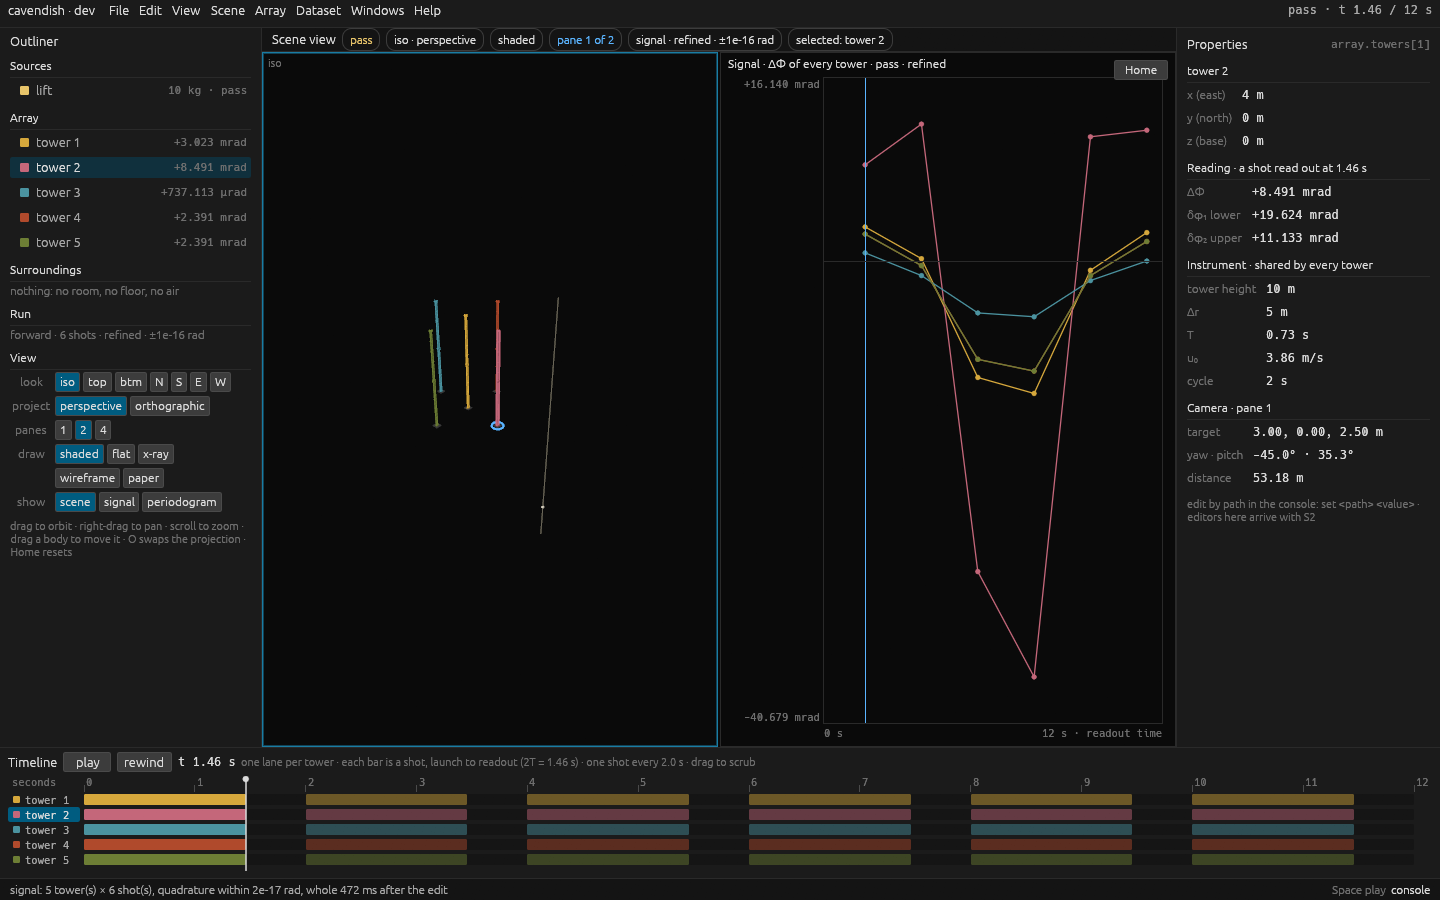
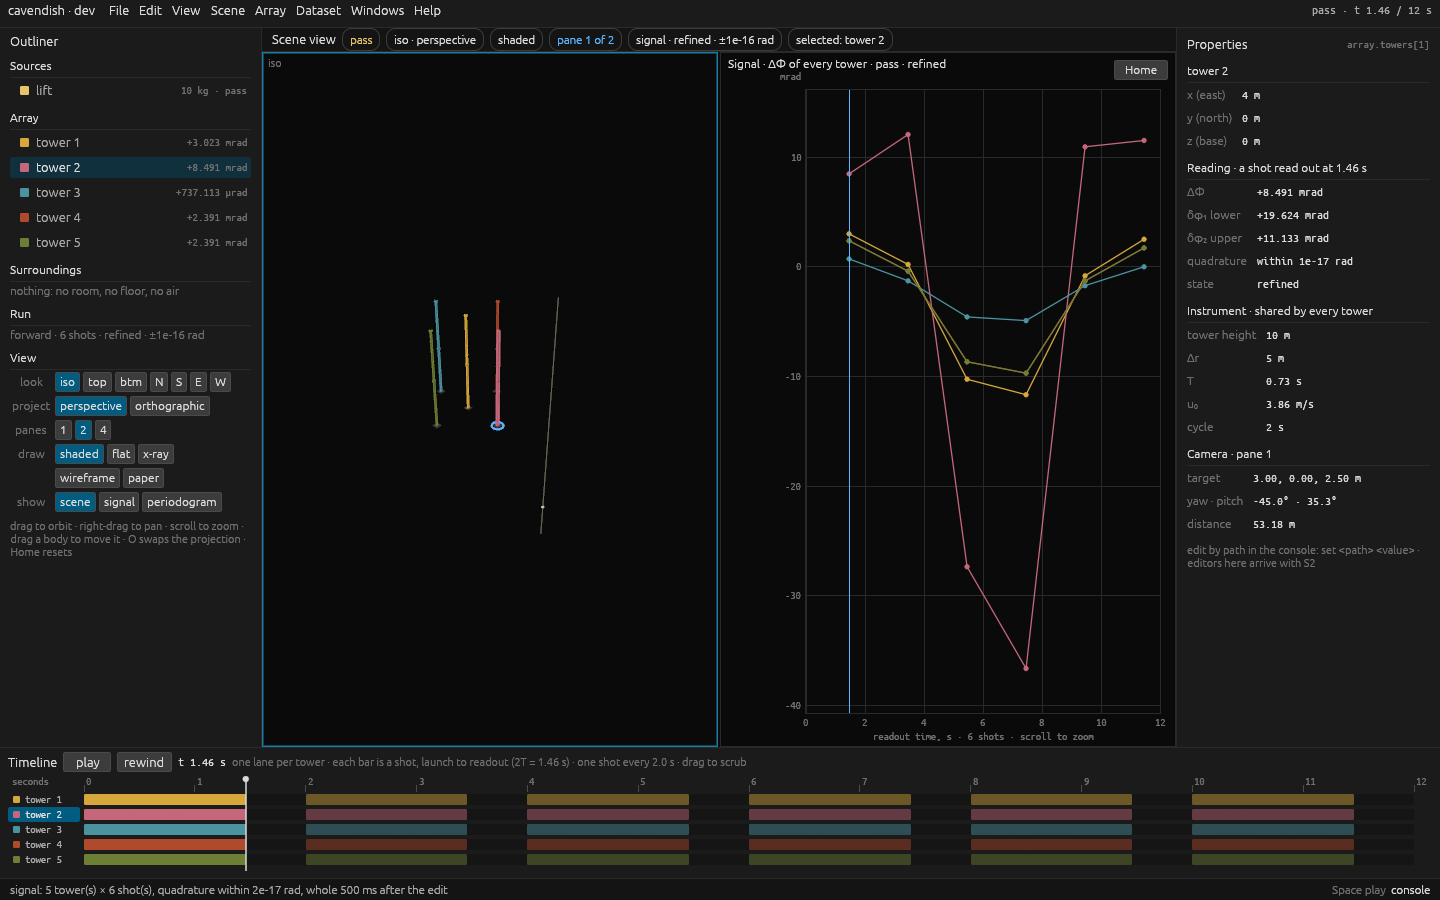
Ubuntu Mono as the monospace face, its licence built in; screenshots made again
The font file and its licence were added on main by the coordinator on the owner's yes; this wires
it in (include_bytes!), builds the Ubuntu Font Licence in beside it and names both in the About
box. Held by the face's advance, with egui's Hack as the control. S0 and S1 demos re-run. With the
pictures open: the unit no longer sits on the caption, the caption fits its pane, and stems'
labels are not written over each other.

Claude-Session: https://claude.ai/code/session_017UKyESvgTyJj7e3MbJhZtf

diff --git a/crates/cav-app/src/plots.rs b/crates/cav-app/src/plots.rs
@@ -185,16 +185,19 @@ struct Sheet<'a> {
     rect: Rect,
     area: Rect,
     labels: Vec<(String, Rect)>,
+    /// How many of the labels are the title and the axes' own, which a stem's label may sit on
+    /// (a mark's number is outside the axes; the title is above them).
+    fixed: usize,
 }
 
 impl<'a> Sheet<'a> {
     /// A sheet with its title at the top and `legend` lines under it, above the axes.
     fn new(painter: &'a egui::Painter, rect: Rect, title: &str, legend: usize) -> Self {
         painter.rect_filled(rect, 0.0, theme::BACKGROUND);
-        let top = 26.0 + 13.0 * legend as f32;
+        let top = 38.0 + 13.0 * legend as f32;
         let area = Rect::from_min_max(rect.min + vec2(86.0, top), rect.max - vec2(16.0, 34.0));
         painter.rect_stroke(area, 0.0, Stroke::new(1.0, theme::RULE), egui::StrokeKind::Outside);
-        let mut sheet = Self { painter, rect, area, labels: Vec::new() };
+        let mut sheet = Self { painter, rect, area, labels: Vec::new(), fixed: 0 };
         sheet.text(
             rect.left_top() + vec2(8.0, 5.0),
             Align2::LEFT_TOP,
@@ -214,6 +217,38 @@ impl<'a> Sheet<'a> {
 
     fn small(&mut self, at: Pos2, anchor: Align2, text: impl Into<String>) {
         self.text(at, anchor, text, FontId::monospace(10.5), theme::WEAK);
+    }
+
+    /// The caption under the horizontal axis: the first of `forms` that fits the width of the
+    /// axes, or the last if none does.
+    fn caption(&mut self, forms: &[String]) {
+        let font = FontId::monospace(10.5);
+        let fits = |text: &String| {
+            self.painter.layout_no_wrap(text.clone(), font.clone(), theme::WEAK).size().x <= self.area.width()
+        };
+        let text = forms.iter().find(|text| fits(text)).or(forms.last()).cloned().unwrap_or_default();
+        self.small(pos2(self.area.center().x, self.area.bottom() + 18.0), Align2::CENTER_TOP, text);
+    }
+
+    /// Writes a stem's label by its top, where it covers no label already written: to the right
+    /// of the stem (to the left near the right edge), then higher, a line at a time. A label
+    /// with nowhere to go is left out; its stem and its dot still stand. True when written.
+    fn stem_label(&mut self, top: Pos2, text: &str, colour: Color32) -> bool {
+        let font = FontId::proportional(10.0);
+        let size = self.painter.layout_no_wrap(text.to_owned(), font.clone(), colour).size();
+        let left = top.x + 3.0 + size.x > self.area.right();
+        for lift in 0..4 {
+            let bottom = (top.y - 3.0 - 11.0 * lift as f32).max(self.area.top() + size.y + 1.0);
+            let min = pos2(if left { top.x - 3.0 - size.x } else { top.x + 3.0 }, bottom - size.y);
+            let took = Rect::from_min_size(min, size);
+            // With a little air round it: labels that touch read as one.
+            let air = took.expand2(vec2(4.0, 1.0));
+            if self.labels[self.fixed..].iter().all(|(_, other)| !other.intersects(air)) {
+                self.text(min, Align2::LEFT_TOP, text, font, colour);
+                return true;
+            }
+        }
+        false
     }
 
     fn nothing(&mut self, why: &str) {
@@ -329,17 +364,15 @@ fn signal(engine: &Engine, painter: &egui::Painter, pane: usize, rect: Rect) -> 
         painter.vline(at, area.y_range(), Stroke::new(1.0, theme::LINK));
         drawn.playhead = Some(at);
     }
-    sheet.small(pos2(area.left() - 5.0, area.bottom() + 18.0), Align2::RIGHT_TOP, unit);
-    let whole = if frame.span.is_some() {
-        " · scroll to zoom, double-click for all of it"
-    } else {
-        " · scroll to zoom"
-    };
-    sheet.small(
-        pos2(area.center().x, area.bottom() + 18.0),
-        Align2::CENTER_TOP,
-        format!("readout time, s · {} shots{whole}", signal.times.len()),
-    );
+    sheet.small(area.left_top() + vec2(-5.0, -19.0), Align2::RIGHT_TOP, unit);
+    let shots = signal.times.len();
+    let hint =
+        if frame.span.is_some() { "scroll to zoom, double-click for all of it" } else { "scroll to zoom" };
+    sheet.caption(&[
+        format!("readout time, s · {shots} shots · {hint}"),
+        format!("readout time, s · {shots} shots"),
+        "time, s".to_owned(),
+    ]);
     drawn.labels = sheet.labels;
     drawn
 }
@@ -409,6 +442,7 @@ fn periodogram(engine: &Engine, painter: &egui::Painter, pane: usize, rect: Rect
     // The combs: a stem at each harmonic, at the height the spectrum has there. A harmonic above
     // Nyquist stands where it folds to, dashed, and says so.
     let clip = painter.with_clip_rect(area.expand(3.0));
+    sheet.fixed = sheet.labels.len();
     for (n, comb) in spectrum.combs.iter().enumerate() {
         let colour = COMB_COLOURS[n % COMB_COLOURS.len()];
         let mut named: Vec<(Pos2, String)> = Vec::new();
@@ -447,16 +481,7 @@ fn periodogram(engine: &Engine, painter: &egui::Painter, pane: usize, rect: Rect
             drawn.stems.push((comb.label.clone(), harmonic.n, top.x, harmonic.folded));
         }
         for (top, text) in named {
-            // To the right of its stem, or to the left when the right edge is too near for the
-            // words; never above the top of the plot.
-            let width = 5.5 * text.chars().count() as f32 + 8.0;
-            let (anchor, offset) = if top.x + width > area.right() {
-                (Align2::RIGHT_BOTTOM, vec2(-3.0, -3.0))
-            } else {
-                (Align2::LEFT_BOTTOM, vec2(3.0, -3.0))
-            };
-            let at = pos2(top.x, top.y.max(area.top() + 13.0)) + offset;
-            sheet.text(at, anchor, text, FontId::proportional(10.0), colour);
+            sheet.stem_label(top, &text, colour);
         }
         // The legend has a line of its own above the axes, where no peak can be under it.
         if n < COMB_COLOURS.len() {
@@ -469,12 +494,12 @@ fn periodogram(engine: &Engine, painter: &egui::Painter, pane: usize, rect: Rect
             );
         }
     }
-    sheet.small(pos2(area.left() - 5.0, area.bottom() + 18.0), Align2::RIGHT_TOP, "rad/√Hz");
-    sheet.small(
-        pos2(area.center().x, area.bottom() + 18.0),
-        Align2::CENTER_TOP,
+    sheet.small(area.left_top() + vec2(-5.0, -19.0), Align2::RIGHT_TOP, "rad/√Hz");
+    sheet.caption(&[
         format!("frequency, Hz · Nyquist {} Hz · scroll to zoom", plain(nyquist)),
-    );
+        format!("frequency, Hz · Nyquist {} Hz", plain(nyquist)),
+        "frequency, Hz".to_owned(),
+    ]);
     drawn.labels = sheet.labels;
     drawn
 }

diff --git a/crates/cav-app/src/theme.rs b/crates/cav-app/src/theme.rs
@@ -26,9 +26,33 @@ pub fn tower(n: usize) -> Color32 {
     Color32::from_rgb(r, g, b)
 }
 
-/// Installs the fonts' sizes, the colours and the spacing. Fonts are egui's bundled Ubuntu Light
-/// and Hack, with no system fallback, so a screenshot is the same on every machine.
+/// Ubuntu Mono Regular, unmodified: the monospace face. Its licence is [`MONO_FONT_LICENCE`];
+/// where the file came from is in `assets/fonts/SOURCE.md`.
+pub const MONO_FONT: &[u8] = include_bytes!("../assets/fonts/UbuntuMono-Regular.ttf");
+
+/// The Ubuntu Font Licence 1.0, whole: built into the application with the font it covers, so the
+/// licence goes wherever the binary does. It covers the font only.
+pub const MONO_FONT_LICENCE: &str = include_str!("../assets/fonts/UFL.txt");
+
+/// The name the monospace face is registered under.
+pub const MONO_FONT_NAME: &str = "Ubuntu Mono";
+
+/// The fonts: egui's bundled Ubuntu Light for text and Ubuntu Mono for numbers, paths and the
+/// console, with egui's Hack behind it for the signs Ubuntu Mono lacks. No system fonts, so a
+/// screenshot is the same on every machine.
+#[must_use]
+pub fn fonts() -> egui::FontDefinitions {
+    let mut fonts = egui::FontDefinitions::default();
+    fonts
+        .font_data
+        .insert(MONO_FONT_NAME.to_owned(), std::sync::Arc::new(egui::FontData::from_static(MONO_FONT)));
+    fonts.families.entry(FontFamily::Monospace).or_default().insert(0, MONO_FONT_NAME.to_owned());
+    fonts
+}
+
+/// Installs the fonts and their sizes, the colours and the spacing.
 pub fn apply(ctx: &egui::Context) {
+    ctx.set_fonts(fonts());
     ctx.set_theme(egui::Theme::Dark);
     ctx.all_styles_mut(|style| {
         style.text_styles = [
@@ -82,4 +106,47 @@ pub fn apply(ctx: &egui::Context) {
         widgets.open.weak_bg_fill = HOVER;
         widgets.open.corner_radius = radius;
     });
+}
+
+#[cfg(test)]
+mod tests {
+    use super::*;
+
+    /// The width of `text` in the monospace face at 12 points, in a context set up by `setup`.
+    fn width(setup: impl Fn(&egui::Context), text: &str) -> f32 {
+        let ctx = egui::Context::default();
+        setup(&ctx);
+        let mut wide = 0.0;
+        // Fonts are installed at the start of a frame.
+        for _ in 0..2 {
+            let mut output = ctx.run_ui(egui::RawInput::default(), |ui| {
+                wide = ui.painter().layout_no_wrap(text.to_owned(), FontId::monospace(12.0), TEXT).size().x;
+            });
+            // Nothing is painted, so the font atlas has nowhere to go.
+            output.textures_delta.clear();
+        }
+        wide
+    }
+
+    #[test]
+    fn the_monospace_face_is_ubuntu_mono_with_its_licence() {
+        // Ubuntu Mono's advance is half an em: twelve characters at 12 points are 72 points wide,
+        // whatever the characters.
+        for text in ["iiiiiiiiiiii", "MMMMMMMMMMMM", "0.1234567890"] {
+            let wide = width(apply, text);
+            assert!((wide - 72.0).abs() < 0.75, "`{text}` is {wide} points wide");
+        }
+        // Control: egui's own monospace face (Hack, 0.6 em) is wider, so the test can tell them apart.
+        let hack = width(|_| {}, "MMMMMMMMMMMM");
+        assert!(hack > 80.0, "egui's default monospace is {hack} points wide");
+        // The face comes first in its family; Hack stays behind it for signs it lacks.
+        let fonts = fonts();
+        let family = &fonts.families[&FontFamily::Monospace];
+        assert_eq!(family[0], MONO_FONT_NAME);
+        assert!(family.len() >= 2 && family.iter().any(|name| name == "Hack"), "{family:?}");
+        // The file is a TrueType font, and the licence built in beside it is the Ubuntu Font Licence 1.0.
+        assert_eq!(&MONO_FONT[..4], &[0, 1, 0, 0]);
+        assert!(MONO_FONT_LICENCE.contains("UBUNTU FONT LICENCE Version 1.0"));
+        assert!(MONO_FONT_LICENCE.len() > 4000, "the whole licence, not a line of it");
+    }
 }

diff --git a/xtask/src/demo.rs b/xtask/src/demo.rs
@@ -194,7 +194,7 @@ fn s1(root: &Path) -> Result<(), String> {
     // by the `set` a drag issues (the drag itself, by pointer, is `dragging_a_body_moves_it_under_the_pointer`).
     let drag = "load point; select body 1; set bodies[0].motion.Static.position";
     let pass = "load pass; panes 2; show signal @2; select tower 2; seek";
-    let shots: [(&str, String); 10] = [
+    let shots: [(&str, String); 11] = [
         ("drag-1.png", format!("{drag} [2, 0, 2.5]")),
         ("drag-2.png", format!("{drag} [2.9, 0.9, 2.5]")),
         ("drag-3.png", format!("{drag} [3.6, 1.6, 2.5]")),
@@ -202,6 +202,11 @@ fn s1(root: &Path) -> Result<(), String> {
         ("pass-2.png", format!("{pass} 5.46")),
         ("pass-3.png", format!("{pass} 9.46")),
         ("signal.png", "load oscillator-zoo; panes 2; show signal @2; seek 600".to_owned()),
+        // The same plot zoomed to its first two minutes: the shots themselves.
+        (
+            "signal-zoom.png",
+            "load oscillator-zoo; panes 2; show signal @2; span 0 120 @2; seek 60".to_owned(),
+        ),
         ("periodogram-comb.png", "load comb; panes 2; show periodogram @2".to_owned()),
         ("periodogram-folded.png", "load folded-comb; panes 2; show periodogram @2".to_owned()),
         (
@@ -214,6 +219,14 @@ fn s1(root: &Path) -> Result<(), String> {
         capture(&app, &["--screenshot", &target, "--size", "1440x900", "--exec", script])?;
         expect_png(&out, file, [1440, 900], &mut made)?;
     }
+
+    // 4b. A plot pane as an agent sees it: `cav render` (and MCP `render_view`) draw the pane's plot.
+    let target = path("render-periodogram.png");
+    capture(
+        &cav,
+        &["render", "folded-comb", "--size", "900x520", "--exec", "show periodogram", "--out", &target],
+    )?;
+    expect_png(&out, "render-periodogram.png", [900, 520], &mut made)?;
 
     // 5. What the console answers.
     let script = "load point; reading 3; set bodies[0].motion.Static.position [3, 0, 2.5]; reading 3; \

diff --git a/crates/cav-app/tests/shell.rs b/crates/cav-app/tests/shell.rs
@@ -624,6 +624,17 @@ fn panes_show_plots_and_the_scene() {
         assert!(legend.iter().all(|l| !l.1.intersects(*took)), "`{text}` is under the legend");
         assert!(took.top() >= spectrum.area.top() - 1.0, "`{text}` is above the plot");
     }
+    // No stem's label is written over another's, of its own comb or of another body's; a label
+    // with nowhere to go is left out, but each body's f₀ is always named.
+    let stems: Vec<&(String, egui::Rect)> =
+        spectrum.labels.iter().filter(|l| l.0.ends_with("f₀") || l.0.ends_with("folded")).collect();
+    for (k, a) in stems.iter().enumerate() {
+        for b in &stems[k + 1..] {
+            assert!(!a.1.intersects(b.1), "`{}` and `{}` are written over each other", a.0, b.0);
+        }
+    }
+    assert!(stems.len() >= 8, "only {} stems are named", stems.len());
+    assert_eq!(stems.iter().filter(|l| l.0 == "f₀" || l.0 == "f₀ folded").count(), 4);
     // Both axes are marked between their ends: frequencies every 0.05 Hz, and the decades.
     let said = |text: &str| spectrum.labels.iter().any(|l| l.0 == text);
     assert!(said("0.05") && said("0.1") && said("0.2") && said("0.25"), "{:?}", spectrum.labels);

diff --git a/crates/cav-app/src/panels.rs b/crates/cav-app/src/panels.rs
@@ -1015,6 +1015,15 @@ fn windows(shell: &mut Shell, ctx: &egui::Context) {
                 ui.label(RichText::new(adapter).monospace().size(11.0).color(theme::WEAK));
             }
             ui.add_space(4.0);
+            ui.label(
+                RichText::new(
+                    "Numbers are set in Ubuntu Mono, © Canonical Ltd, used unmodified under the Ubuntu Font                      Licence 1.0 (hover for the licence).",
+                )
+                .size(11.0)
+                .color(theme::WEAK),
+            )
+            .on_hover_text(RichText::new(theme::MONO_FONT_LICENCE).size(10.0));
+            ui.add_space(4.0);
             ui.label(RichText::new("The window's own commands:").size(11.5));
             for (name, about) in APP_COMMANDS {
                 ui.label(

diff --git a/docs/slices/S1.md b/docs/slices/S1.md
@@ -697,3 +697,21 @@ wrong, both on the cautious side, and are corrected here rather than in §3.2.
   as written, not tightened to what was measured.
 - It is not wired to a command: nothing in S1 samples unevenly (the engine's periodogram is the
   classical one on its uniform grid). It is there for S11's long, gapped series.
+
+### 7.4 Ubuntu Mono (TASK-S1-12)
+
+The monospace face is Ubuntu Mono Regular (REBUILD §6), built into the application from
+`crates/cav-app/assets/fonts/UbuntuMono-Regular.ttf` (the file, its licence and `SOURCE.md` were
+added by the coordinator on the owner's yes; its SHA-256 matches `SOURCE.md`). The Ubuntu Font
+Licence 1.0 is built in with it (`theme::MONO_FONT_LICENCE`) and the About box names the font, its
+owner and its licence, with the whole text on hover, so the licence goes wherever the binary does.
+egui's Hack stays behind it in the family for the signs Ubuntu Mono lacks.
+`the_monospace_face_is_ubuntu_mono_with_its_licence` holds it by the face's advance (half an em;
+Hack's 0.6 em is the control). Every screenshot of the application in `docs/slices/S0/` and
+`docs/slices/S1/` was made again.
+
+With the screenshots open, three more things in the plots were put right: the unit of the vertical
+axis sat on the caption in a narrow pane; the caption was cut off at the pane's edge (it now takes
+the longest of three forms that fits); and in the oscillator zoo the labels of different bodies'
+stems were written over each other (a label now goes where it covers no other, a line higher at a
+time, and is left out if there is nowhere; the test holds that no two intersect).
